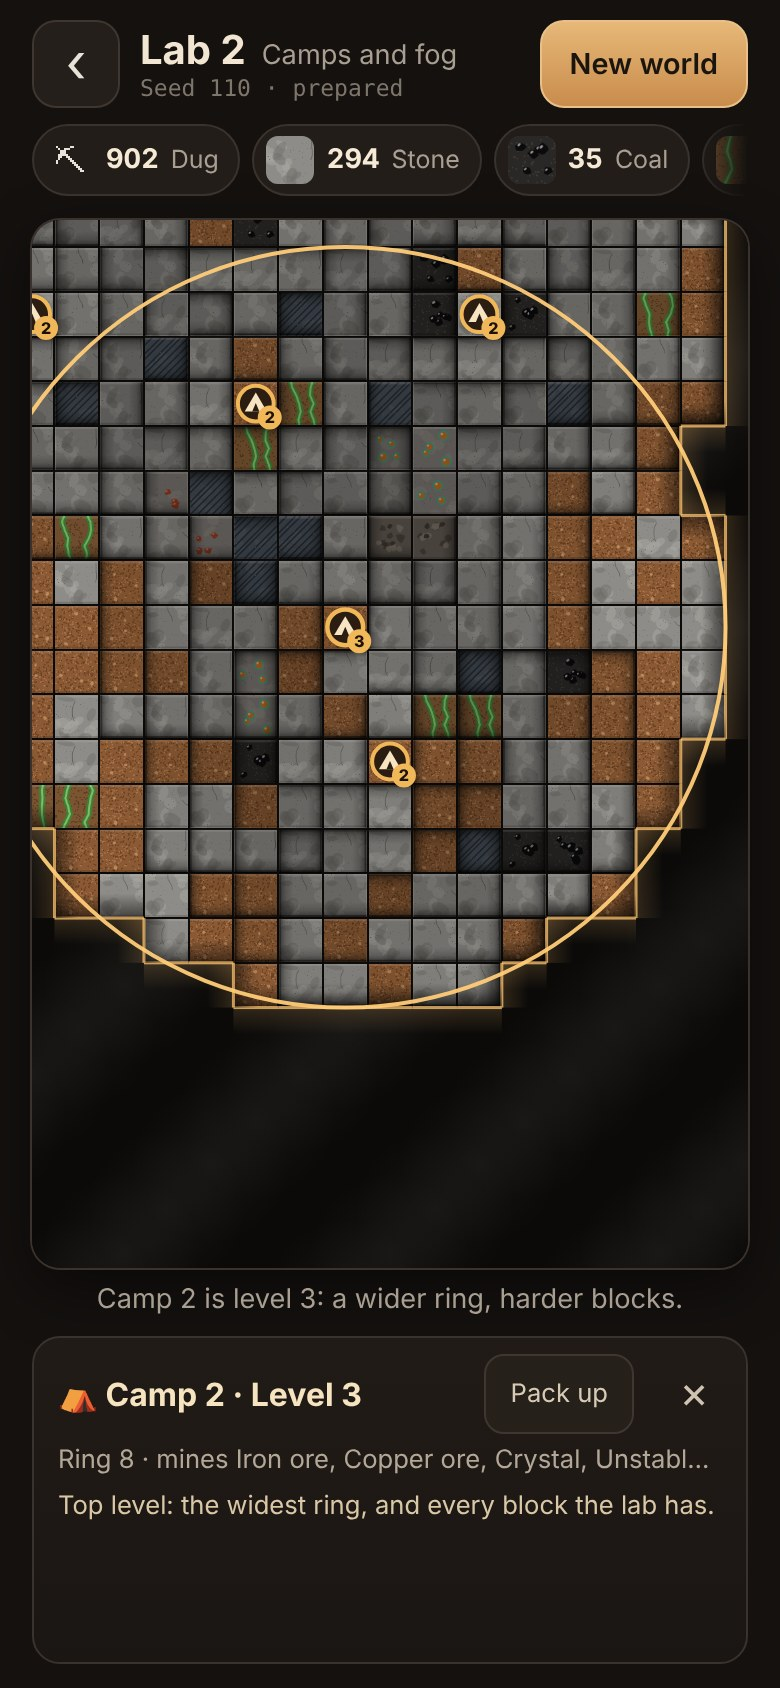
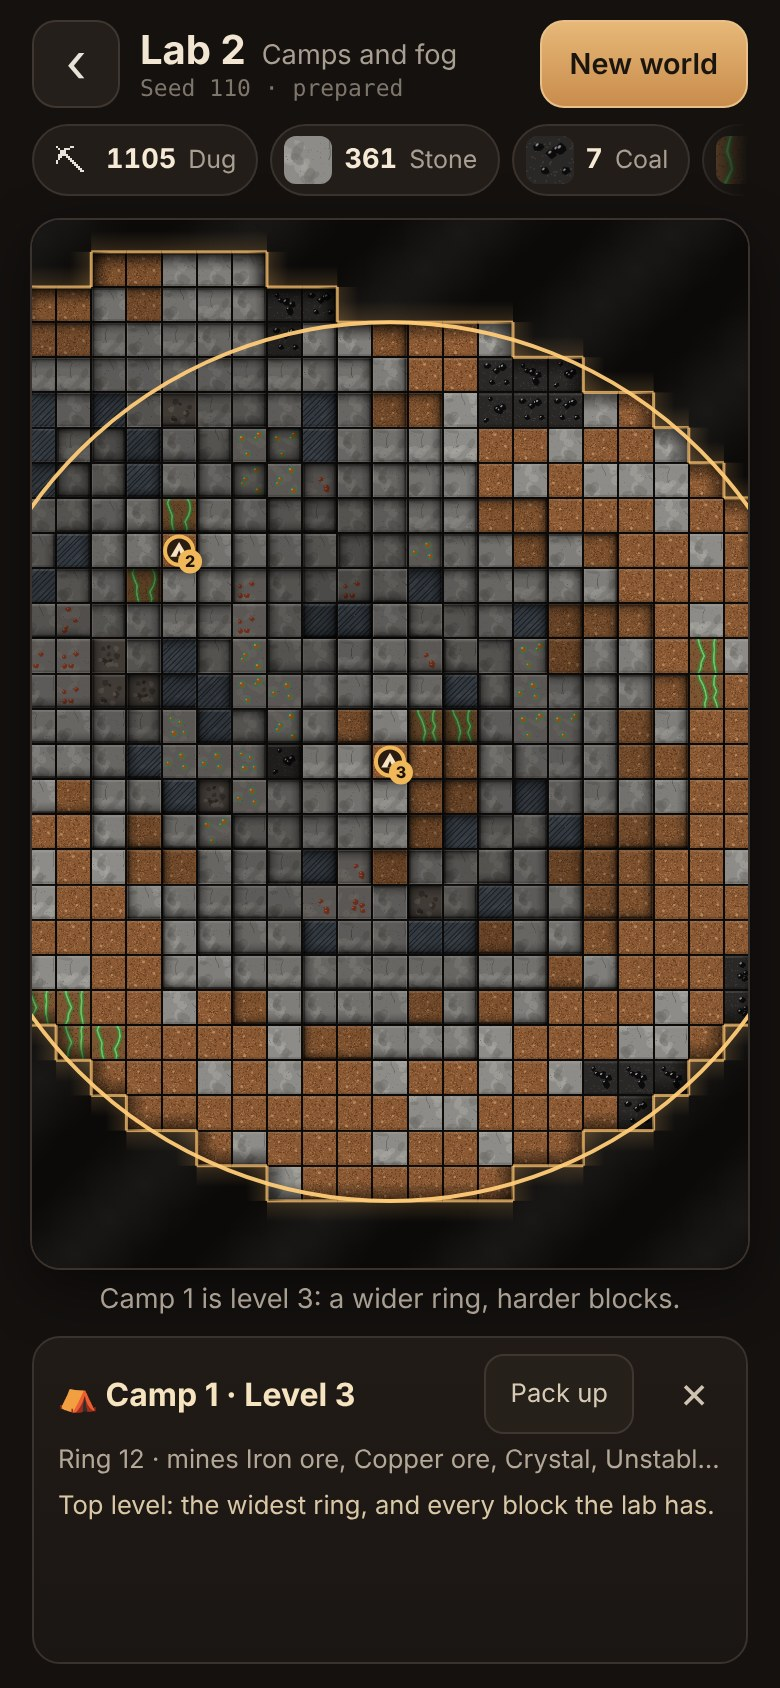
Lab 2: wider camp rings (5 / 8 / 12), costs the first ring always pays
The owner asked for wider rings so resources are obtainable. Level 1 to 3
now see 5, 8 and 12 squares. A new camp costs 12 stone and level 2 costs
30 stone: the first ring gives at least 63 stone in each of 200 seeds,
which a new unit test checks; coal and timber are missing from it in some
seeds, so they are asked for only at level 3 (150 stone, 20 timber,
20 coal). The map opens 14 squares across, so the whole first ring and a
little fog are in view. The camp panel's cost chips are smaller, so three
fit beside the Upgrade button.

Claude-Session: https://claude.ai/code/session_013qbeeYRuiqGUrErSzN4qt9

diff --git a/tests/app/campWorld.test.ts b/tests/app/campWorld.test.ts
@@ -371,3 +371,51 @@ describe('a new world', () => {
     expect(again.lab.mined).toBe(w.lab.mined);
   });
 });
+
+/**
+ * Mine everything the camps of `start` let a player mine, square by square,
+ * until nothing more can be: what a player could collect without placing or
+ * upgrading anything. Only lit squares are tried.
+ */
+function mineEverything(start: CampWorld): CampWorld {
+  let w = start;
+  const width = w.lab.depths.width;
+  const lit: number[] = [];
+  sightMap(w).forEach((sight, i) => {
+    if (sight === 'shown') lit.push(i);
+  });
+  let mined = true;
+  while (mined) {
+    mined = false;
+    for (const i of lit) {
+      const tap = campTap(w, i % width, Math.floor(i / width));
+      if (tap.kind === 'mined') {
+        w = tap.world;
+        mined = true;
+      }
+    }
+  }
+  return w;
+}
+
+/** `a` and `b` added together, item by item. */
+function together(a: ItemStack[], b: ItemStack[]): ItemStack[] {
+  const sum = new Map<string, number>();
+  for (const s of [...a, ...b]) sum.set(s.item, (sum.get(s.item) ?? 0) + s.count);
+  return [...sum].map(([item, count]) => ({ item, count }));
+}
+
+describe('the starting ring pays for the next steps (owner, issue #118)', () => {
+  // 200 generated worlds take a few seconds, so this test has a longer time limit.
+  it('in each of 200 seeds, the first camp’s ring alone holds a second camp and the first upgrade', () => {
+    const both = together(LAB_NEW_CAMP_COST, upgradeCostFrom(1) ?? []);
+    const short: string[] = [];
+    for (let seed = 1; seed <= 200; seed += 1) {
+      const w = mineEverything(newCampWorld(seed));
+      if (!canAfford(w.lab.counts, both)) {
+        short.push(`seed ${seed}: ${JSON.stringify([...w.lab.counts])}`);
+      }
+    }
+    expect(short).toEqual([]);
+  }, 60_000);
+});

diff --git a/src/data/labCamps.ts b/src/data/labCamps.ts
@@ -26,29 +26,26 @@ export interface LabCampLevel {
  */
 export const LAB_CAMP_LEVELS: LabCampLevel[] = [
   {
-    radius: 3,
-    // Timber-root is here too: timber pays for new camps.
+    radius: 5,
+    // Timber-root is here too: timber pays for the level-3 upgrade.
     addsBlocks: ['dirt', 'rubble', 'stone', 'coalSeam', 'timberRoot'],
     upgradeCost: [],
   },
   {
-    radius: 5,
+    radius: 8,
     addsBlocks: ['hardRock'],
-    upgradeCost: [
-      { item: 'stone', count: 12 },
-      { item: 'timber', count: 2 },
-    ],
+    upgradeCost: [{ item: 'stone', count: 30 }],
   },
   {
-    radius: 8,
+    radius: 12,
     addsBlocks: ['ironOre', 'copperOre', 'crystal', 'unstableOre', 'relic', 'keystone'],
     upgradeCost: [
-      { item: 'stone', count: 30 },
-      { item: 'timber', count: 6 },
-      { item: 'coal', count: 3 },
+      { item: 'stone', count: 150 },
+      { item: 'timber', count: 20 },
+      { item: 'coal', count: 20 },
     ],
   },
 ];
 
 /** What a new camp costs. The first camp is free. */
-export const LAB_NEW_CAMP_COST: ItemStack[] = [{ item: 'stone', count: 8 }];
+export const LAB_NEW_CAMP_COST: ItemStack[] = [{ item: 'stone', count: 12 }];

diff --git a/tests/e2e/lab2.spec.ts b/tests/e2e/lab2.spec.ts
@@ -4,7 +4,7 @@
 // What each tap should do is worked out here with the same lab code the
 // build runs (campWorld.ts): the engine is deterministic, so the page and
 // this file play the same world. Seed 110 opens with its first camp near
-// the middle of the screen.
+// the middle of the screen, its whole ring and a little fog in view.
 import { expect, test } from '@playwright/test';
 import type { Locator, Page } from '@playwright/test';
 import { LAB_NEW_CAMP_COST } from '../../src/data/labCamps';
@@ -183,9 +183,9 @@ test('mining enough pays for a second camp, and the fog recedes round it', async
   }
   await expect.poll(() => counts(page)).toEqual(expectedCounts(plan.world));
 
-  // The new camp goes on the east edge of the ring; a square past it is fog now.
+  // The new camp goes on the east edge of the ring; the square past it is fog now.
   const target = { x: camp.x + campRadius(1), y: camp.y };
-  const beyond = { x: target.x + 2, y: target.y };
+  const beyond = { x: target.x + 1, y: target.y };
   expect(await brightness(canvas, beyond)).toBeLessThan(30);
   const fresh = newlyCovered(plan.world, target.x, target.y).length;
 

diff --git a/tests/e2e/campPlan.ts b/tests/e2e/campPlan.ts
@@ -130,7 +130,7 @@ export function planUpgrade(seed: number, maxCamps = 12): UpgradePlan | null {
     }
     // Is there an ore block next to the first camp's screen that a level-2 camp covers?
     for (const camp of world.camps) {
-      if (camp.level !== 2 || !near(camp, first, 4, 6) || upgradeRefusal(world, camp.id) !== null) {
+      if (camp.level !== 2 || !near(camp, first, 6, 9) || upgradeRefusal(world, camp.id) !== null) {
         continue;
       }
       for (let y = 0; y < size.y; y += 1) {
@@ -146,7 +146,7 @@ export function planUpgrade(seed: number, maxCamps = 12): UpgradePlan | null {
           const dy = y - camp.y;
           const r = campRadius(2);
           if (
-            !near(ore, first, 4, 6) ||
+            !near(ore, first, 6, 9) ||
             campAt(world, x, y) !== null ||
             dx * dx + dy * dy > r * r + r ||
             coverLevelAt(world, x, y) !== 2 ||

diff --git a/src/app/lab/lab.css b/src/app/lab/lab.css
@@ -441,7 +441,7 @@ body[data-screen='lab2'] {
 .lab2-cost {
   display: flex;
   flex-wrap: nowrap;
-  gap: 6px;
+  gap: 4px;
   min-width: 0;
   overflow: hidden;
 }
@@ -450,11 +450,11 @@ body[data-screen='lab2'] {
   flex: 0 0 auto;
   display: inline-flex;
   align-items: center;
-  gap: 4px;
+  gap: 3px;
   height: 28px;
-  padding: 0 8px 0 4px;
-  border-radius: 13px;
-  font-size: 0.78rem;
+  padding: 0 7px 0 3px;
+  border-radius: 14px;
+  font-size: 0.74rem;
   background: rgba(120, 200, 120, 0.12);
   border: 1px solid rgba(140, 210, 140, 0.45);
   color: #cfeccc;
@@ -467,8 +467,8 @@ body[data-screen='lab2'] {
 }
 
 .lab2-cost-icon {
-  width: 18px;
-  height: 18px;
+  width: 16px;
+  height: 16px;
   border-radius: 4px;
 }
 

diff --git a/src/app/lab/campScreen.ts b/src/app/lab/campScreen.ts
@@ -712,7 +712,7 @@ export function mountCampLab(root: HTMLElement, seed: number | null, onBack: () 
       const up = camp.level + 1;
       next.textContent = `Level ${up}: ring ${campRadius(up)}, adds ${addedNamesAt(up).join(', ')}`;
       actions.append(costRow(cost));
-      const upgrade = button('lab2-button lab2-button-main', `Upgrade to ${up}`);
+      const upgrade = button('lab2-button lab2-button-main', 'Upgrade');
       upgrade.dataset['testid'] = 'lab2-upgrade';
       upgrade.disabled = !canAfford(world.lab.counts, cost);
       upgrade.addEventListener('click', () => confirmUpgrade(camp.id));

diff --git a/src/app/lab/campLook.ts b/src/app/lab/campLook.ts
@@ -4,7 +4,7 @@
 
 export const CAMP_LOOK = {
   /** Squares across the map when a world opens: the first camp's ring and a little fog around it. */
-  startCells: 11,
+  startCells: 14,
   /** How far the soft edge of the lit ring reaches into a lit square, as a part of the square. */
   edgeWidth: 0.55,
   /** How dark the soft edge is, right at the border. */

diff --git a/docs/owner-questions.md b/docs/owner-questions.md
@@ -140,5 +140,6 @@ Agents add design questions here instead of guessing. The coordinator keeps this
 | 129 | A pit in a corner costs a third of a pit in the middle (3.1; question 84). To depth 8: 120 blocks in a corner, 204 against a side, 344 in the middle. A careful player will always dig in a corner. Is that wanted?                                                                                                                                                                                                                                                    | M2 playtest round | answered   | **Owner, 2026-11-20 (issue #108):** corner pits are left as they are. The cube's walls still do not count for the level rule (question 84)                                                                                                                                                                                                                                                                                                                                                                                                                                                                                                                                                                                                                                                                                                                           |
 | 130 | The starting camp does not pay for itself (8; question 90). A careful digger reaches depth 7 in 48% of runs without a camp and 41% with one: the camp burns 1 fuel (one shift, 5 AP) every 4 shifts and saves 1 AP on the stone blocks within 4 steps. Should a camp be worth founding for its cheaper mining alone?                                                                                                                                                   | M2 playtest round | answered   | **Owner, 2026-11-20 (issue #108):** "Make camps worth founding": the cheaper mining reaches 8 steps (was 4) and a camp's upkeep comes every 8 shifts (was 4), the first setting in the survey's table 10 where a camp pays. In `src/data` since decision note 0040                                                                                                                                                                                                                                                                                                                                                                                                                                                                                                                                                                                                   |
 | 131 | The forecast of crew damage (5.2, 11; issue #112). A slump or a blast takes a top block away, and the forecast cannot know whether a pocket is under it. How should it speak of the damage that could change?                                                                                                                                                                                                                                                          | M2 (T16)          | assumed    | As built: it never reads a hidden cell. A slump's own damage is exact. If a slump uncovers a block the player has not seen, the damage from water, lava, gas and blasts later in that end of shift reads "MAY LOSE N"; if only a blast does, gas damage reads "LOSES AT LEAST N". The run is said to be lost for certain only on the certain part; otherwise "THE RUN MAY BE LOST", and the phone asks for a second tap either way. Most slumps uncover an unseen block, so "may" is common. Alternative: use the tells. A block with no damp, pitted or warm mark has no pocket right under it, so its fall would uncover nothing that matters and the forecast could stay exact; the forecast would then depend on tells, which 3.4 allows only as a hint (decision note 0039)                                                                                     |
-| 132 | UI lab 2 (issue #118): what does a new camp cost? You suggested "for example timber + stone". The first camp's ring (radius 3) holds no timber at all in most seeds (60 seeds: median 0 timber, 0 coal, 18 stone), so a camp that needs timber could not be bought from the first ring and the lab would stall.                                                                                                                                                        | Lab 2             | assumed    | A new camp costs 8 stone (every one of 60 seeds gives at least 10 stone in the first ring, after about 20 to 30 taps). Timber is asked for by the upgrades instead: level 2 is 12 stone + 2 timber, level 3 is 30 stone + 6 timber + 3 coal. All in `src/data/labCamps.ts`.                                                                                                                                                                                                                                                                                                                                                                                                                                                                                                                                                                                          |
+| 132 | UI lab 2 (issue #118): what does a new camp cost? You suggested "for example timber + stone", and later asked that the starting ring always pays for the first camp and the first upgrade. The first ring (radius 5) has no coal in 40 of 200 seeds and no timber in 26, but always at least 63 stone.                                                                                                                                                                 | Lab 2             | assumed    | A new camp costs 12 stone and level 2 costs 30 stone; a test checks that all 200 seeds pay for both from the first ring. Timber and coal are asked for at level 3: 150 stone, 20 timber, 20 coal. All in `src/data/labCamps.ts`.                                                                                                                                                                                                                                                                                                                                                                                                                                                                                                                                                                                                                                     |
 | 133 | UI lab 2 (issue #118): the issue describes greyed squares ("a camp was moved or removed") but no way to move or remove a camp. Should there be one, and what should it give back?                                                                                                                                                                                                                                                                                      | Lab 2             | assumed    | A camp's panel has "Pack up": the camp goes and gives nothing back, and what only it lit turns grey. The last camp cannot be packed up. Moving a camp is not offered.                                                                                                                                                                                                                                                                                                                                                                                                                                                                                                                                                                                                                                                                                                |
+| 134 | UI lab 2 (issue #118): a camp's square is never mined, so it stays at ground level, and the level rule then keeps every square within 4 steps of it no deeper than 4. Hard rock starts at layer 4, so the hard rock a level-1 camp uncovers can never be mined while that camp stands, even after upgrading it. Is that wanted?                                                                                                                                        | Lab 2             | open       | Unchanged for now: a second camp further away, or packing up the first, frees it. Alternatives: let the camp square sink with its neighbours, or leave the camp's square out of the level rule.                                                                                                                                                                                                                                                                                                                                                                                                                                                                                                                                                                                                                                                                      |

diff --git a/docs/decisions/0042-ui-lab-2.md b/docs/decisions/0042-ui-lab-2.md
@@ -13,18 +13,19 @@ Date: 2026-11-21. Status: implemented (issue #118). No game rule, game data numb
 ## Choices
 
 - **A circle, not face steps.** A diamond of face steps looks like a rotated square on a square grid; a circle reads as "the reach of a lantern". `inCircle` counts a square when dx² + dy² ≤ r² + r (a circle of about r + ½), which leaves no single squares poking out at the four points. Radius 3 lights 37 squares, 7 across.
-- **Starting numbers** (all in `src/data/labCamps.ts`, which the game never reads):
+- **Starting numbers** (all in `src/data/labCamps.ts`, which the game never reads). The owner widened the rings after the first draft ("a wider radius to make sure resources are obtainable"): 5 / 8 / 12, in place of 3 / 5 / 8.
 
-  | Level | Ring | Adds                                                              | Cost to reach it                      |
-  | ----- | ---- | ----------------------------------------------------------------- | ------------------------------------- |
-  | 1     | 3    | dirt, rubble, stone, coal seam, timber-root                       | new camp: 8 stone (the first is free) |
-  | 2     | 5    | hard rock                                                         | 12 stone, 2 timber                    |
-  | 3     | 8    | iron ore, copper ore, crystal (and unstable ore, relic, keystone) | 30 stone, 6 timber, 3 coal            |
+  | Level | Ring | Adds                                                              | Cost to reach it                       |
+  | ----- | ---- | ----------------------------------------------------------------- | -------------------------------------- |
+  | 1     | 5    | dirt, rubble, stone, coal seam, timber-root                       | new camp: 12 stone (the first is free) |
+  | 2     | 8    | hard rock                                                         | 30 stone                               |
+  | 3     | 12   | iron ore, copper ore, crystal (and unstable ore, relic, keystone) | 150 stone, 20 timber, 20 coal          |
+  - **The first ring pays for the next two steps, in every seed.** Mining everything in the free camp's ring (radius 5) gives at least 63 stone in each of 200 seeds (median 83), but no coal in 40 of them and no timber in 26. So the second camp and the first upgrade cost stone only, 12 + 30 = 42 together, and a unit test checks that all 200 seeds can pay for both from the first ring alone. The free camp stays where it was: the dirt square nearest the middle.
+  - **Level 3 needs more camps.** A level-2 first camp alone collects a median of 287 stone, 11 timber and 14 coal (40 seeds), so 20 timber and 20 coal usually take another camp or two. A simple bot (mine everything, upgrade when it can, place each camp where it lights the most new squares) has a level-2 camp at once in all 40 seeds, and its first level-3 camp after 2 to 4 camps.
+  - **Taps.** On seed 110, the second camp takes 45 taps.
 
-  Timber-root is at level 1 so timber can pay for upgrades. A new camp costs stone only: the first ring holds no timber in most seeds (owner question 132). A simple bot (mine everything, upgrade when it can, place each camp where it lights the most new squares; up to 15 camps) has its first level-2 camp by its 5th camp in 28 of 40 seeds, and a level-3 camp in 26 of 40, after 7 camps or so (1 to 14); coal is what runs short.
-
-- **The ring is also a depth limit.** Squares outside every ring cannot be mined, so they stay level, and the level rule lets the ground fall only 1 per square from them: a ring of radius r can be dug about r levels deep in its middle, less near the camp's own square. Hard rock first appears at layer 4 (the middle band), so a level-1 camp alone never meets it; the "needs a level 2 camp" cue appears when several level-1 rings overlap, and "needs a level 3 camp" once a level-2 camp digs into the ore.
+- **The camp's square pins the ground around it.** A camp's own square is never mined, so it stays at depth 0, and the level rule then lets no square be deeper than its number of face steps from the camp. Squares outside every ring stay level too, so a ring of radius r can be dug about r levels deep at most. Hard rock begins at layer 4, so the hard rock a level-1 camp uncovers is 4 steps from it and can never be mined while that camp stands, whatever its level; a second camp further away, or packing up the first, frees it (owner question 134). The "needs a level 3 camp" cue for ore works as expected: ore lies further from the camp.
 - **Pack up** is how a square becomes grey: the camp goes, gives nothing back, and cannot be the last one (owner question 133).
 - **The map never moves** (as Lab 1's review asked). Everything under the map is one tray of a fixed height (164 px); the key, the camp tool, its confirm bar and a camp's panel only swap what is inside it, each row one line high. An e2e test checks the map's and the tray's boxes after each panel opens and closes, and after taps.
 - **Shared code with Lab 1.** Lab 1's screen was split into `labDraw.ts` (a square, its shadows, the tap cues), `labGestures.ts` (drag, pinch, wheel, tap, and an optional hold) and `labDom.ts` (title bar, counter, key). Lab 1 uses them unchanged in behaviour; its e2e tests pass as before.
-- **A prepared world for the e2e tests.** `{ seed, steps }` in localStorage under `mining-game.lab2.prepared` opens Lab 2 with those steps replayed (taps, placings, upgrades). The upgrade test uses it to start where a level-2 camp has dug into ore, rather than tapping 900 squares. "New world" removes it; players never have one.
+- **A prepared world for the e2e tests.** `{ seed, steps }` in localStorage under `mining-game.lab2.prepared` opens Lab 2 with those steps replayed (taps, placings, upgrades). The upgrade test uses it to start where a level-2 camp has dug into ore, rather than tapping 1,100 squares. "New world" removes it; players never have one.
